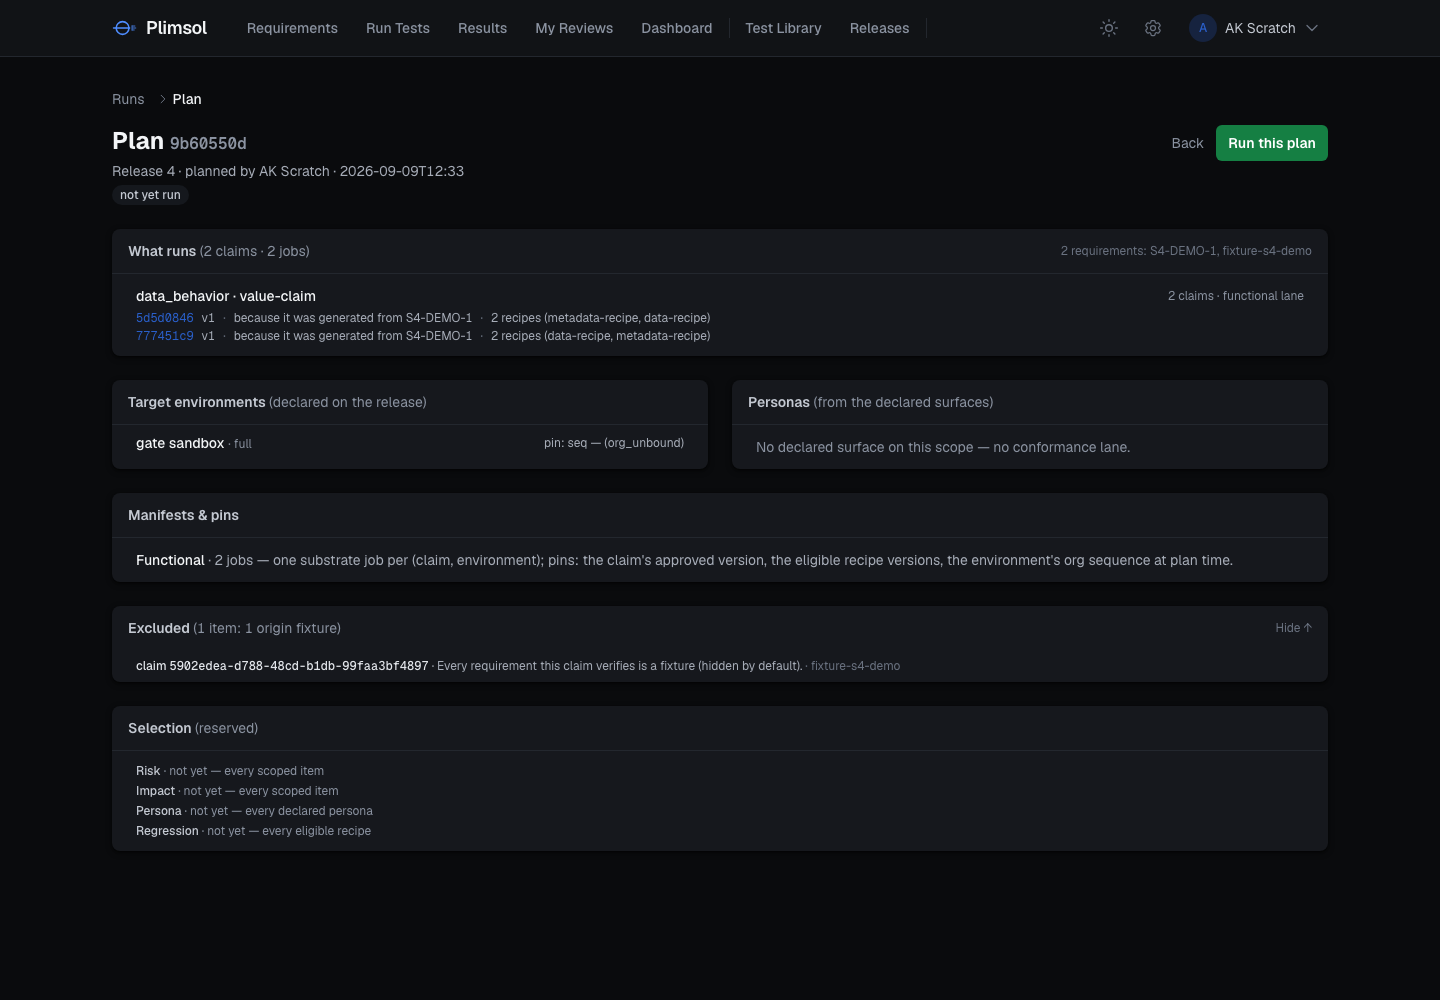
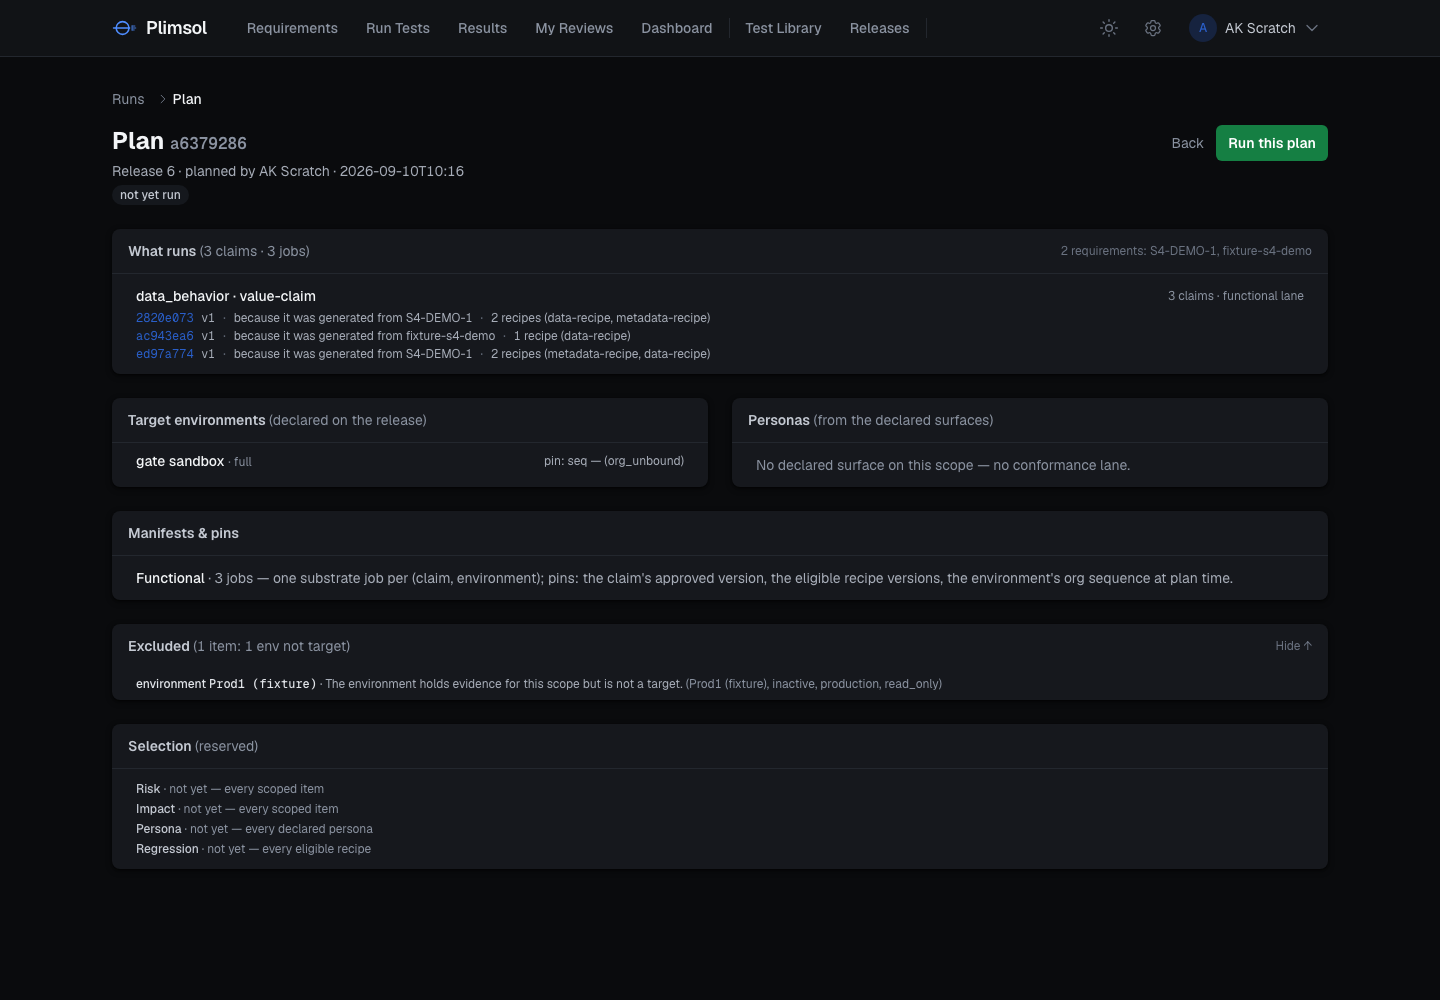
fix(step-4): the plan view 500 on an environment exclusion — the class closed across every template: Jinja's subscript on a dict falls back to attribute lookup when the key is absent, so `x['keys']` on an environment exclusion (which carries no `keys` entry) yielded the dict's own method and the joi

diff --git a/primeqa/templates/plans/detail.html b/primeqa/templates/plans/detail.html
@@ -75,7 +75,7 @@
             <a href="/claims/{{ c.test_id }}" class="font-mono text-indigo-700 hover:underline">{{ c.test_id[:8] }}</a>
             <span>v{{ c.version_seq }}</span>
             <span class="text-gray-400">&middot;</span>
-            <span>because it {{ 'was generated from' if 'generated_from' in c.link_kinds else 'verifies' }} {{ c['keys'] | join(', ') }}</span>
+            <span>because it {{ 'was generated from' if 'generated_from' in c.link_kinds else 'verifies' }} {{ (c.get('keys') or []) | join(', ') }}</span>
             <span class="text-gray-400">&middot;</span>
             <span>{{ c.recipes | length }} recipe{{ '' if (c.recipes | length) == 1 else 's' }} ({{ c.recipes | map(attribute='recipe_kind') | unique | join(', ') }})</span>
             {% if c.unclassified %}<span class="text-amber-700">&middot; origin not classified</span>{% endif %}
@@ -145,12 +145,12 @@
       <h3 class="text-sm font-semibold text-gray-700">Excluded <span class="text-gray-500 font-normal">({{ plan.excluded_total }} item{{ '' if plan.excluded_total == 1 else 's' }}{% if plan.exclusion_lines %}: {% for l in plan.exclusion_lines %}{{ l.count }} {{ l.reason | replace('_', ' ') }}{{ '' if loop.last else ', ' }}{% endfor %}{% endif %})</span></h3>
       <span class="text-xs text-gray-400 group-open:hidden">Show &darr;</span><span class="text-xs text-gray-400 hidden group-open:inline">Hide &uarr;</span>
     </summary>
-    {% if plan.exclusions['items'] %}
+    {% if plan.exclusions.get('items') %}
     <ul class="divide-y divide-gray-100 text-xs">
-      {% for x in plan.exclusions['items'] %}
+      {% for x in plan.exclusions.get('items') or [] %}
       <li class="px-6 py-2 text-gray-600" data-testid="plan-exclusion" data-reason="{{ x.reason }}" data-ref="{{ x.ref }}">
         <span class="font-medium text-gray-800">{{ x.kind }} <span class="font-mono">{{ x.ref if x.kind != 'environment' else env_names.get(x.ref, x.name or x.ref) }}</span></span>
-        &middot; {{ x.sentence }}{% if x.kind == 'environment' and x.name %} <span class="text-gray-500">({{ x.name }}{% if x.is_active == false %}, inactive{% endif %}{% if x.is_production %}, production{% endif %}{% if x.execution_policy %}, {{ x.execution_policy }}{% endif %})</span>{% endif %}{% if x['keys'] %} <span class="text-gray-400">&middot; {{ x['keys'] | join(', ') }}</span>{% endif %}
+        &middot; {{ x.sentence }}{% if x.kind == 'environment' and x.name %} <span class="text-gray-500">({{ x.name }}{% if x.is_active == false %}, inactive{% endif %}{% if x.is_production %}, production{% endif %}{% if x.execution_policy %}, {{ x.execution_policy }}{% endif %})</span>{% endif %}{% if x.get('keys') %} <span class="text-gray-400">&middot; {{ x.get('keys') | join(', ') }}</span>{% endif %}
       </li>
       {% endfor %}
     </ul>

diff --git a/primeqa/templates/releases/detail.html b/primeqa/templates/releases/detail.html
@@ -144,7 +144,7 @@
       <h3 class="text-sm font-medium text-gray-900">Evaluate will refuse — {{ scope_readiness.non_current }} item{{ '' if scope_readiness.non_current == 1 else 's' }} in scope {{ 'is' if scope_readiness.non_current == 1 else 'are' }} not current</h3>
       <p class="text-xs text-gray-500 mt-0.5">A release is graded over its scope's readiness, not its wishes. Run the scope, then evaluate.</p>
       <ul class="mt-3 divide-y divide-gray-100">
-        {% for i in scope_readiness['items'] if i.state != 'CURRENT' %}
+        {% for i in scope_readiness.get('items') or [] if i.state != 'CURRENT' %}
         <li class="py-2 flex items-center gap-3 text-sm" data-testid="scope-item" data-readiness="{{ i.state }}">
           <span class="font-mono text-xs text-blue-700">{{ i.external_keys | join(', ') if i.external_keys else i.test_id[:8] }}</span>
           <span class="text-xs text-gray-500">{{ (env_names or {}).get(i.environment_id) or ('Environment ' ~ i.environment_id if i.environment_id is not none else 'no environment') }}</span>

diff --git a/tests/unit/test_plan_view_template.py b/tests/unit/test_plan_view_template.py
@@ -1,0 +1,86 @@
+"""Step 4 fix (the production 500 on the plan view): the plan template renders a
+resolution that carries an ENVIRONMENT exclusion — the row shape that has no
+``keys`` entry — without a database and without Flask (base.html stubbed).
+
+Jinja's subscript on a dict falls back to attribute lookup when the key is
+absent, so ``x['keys']`` on such a row yields the dict's own ``keys`` METHOD and
+the join filter dies. The template reads ``.get`` now; this test is the guard.
+"""
+from __future__ import annotations
+
+import pathlib
+
+from jinja2 import ChoiceLoader, DictLoader, Environment, FileSystemLoader
+
+TEMPLATES = pathlib.Path(__file__).resolve().parents[2] / "primeqa" / "templates"
+
+_STUB_BASE = "{% block title %}{% endblock %}{% block content %}{% endblock %}"
+
+
+def _env():
+    return Environment(loader=ChoiceLoader([DictLoader({"base.html": _STUB_BASE}),
+                                            FileSystemLoader(str(TEMPLATES))]),
+                       autoescape=True)
+
+
+def _plan(*, executed=False):
+    return {
+        "id": "f52771fd-971f-4c3f-a507-53d110aa51dc", "scope_kind": "release", "scope_ref": "16",
+        "planned_by": 1, "planned_by_name": "AK", "authorised_by": None, "authorised_by_name": None,
+        "planned_at": "2026-09-09T12:18:04", "executed_by": (1 if executed else None),
+        "executed_by_name": ("AK" if executed else None), "executed_at": ("2026-09-09T12:30:00" if executed else None),
+        "execution": ({"s4_jobs": [{"job_id": 1, "attached": False}], "ui_jobs": [], "refusals": []} if executed else None),
+        "inputs": {"targets_source": "fallback:evidence-active", "environment_id": None, "resolved_scope_kind": "release",
+                   "schedule": None},
+        "resolution": {
+            "requirement_keys": ["SQ-205"], "claim_count": 1,
+            "claims_by_kind": {"data_behavior / value-claim": {"archetype": "data_behavior", "claim_kind": "value-claim",
+                               "lane": "functional", "claims": [{"test_id": "abcdef12-0000-0000-0000-000000000000", "version_seq": 1,
+                               "keys": ["SQ-205"], "link_kinds": ["generated_from"], "origins": ["jira"], "unclassified": False,
+                               "recipes": [{"recipe_id": "r1", "version_seq": 1, "recipe_kind": "data-recipe", "mode": "WRITE"}]}]}},
+            "environments": [{"environment_id": 59, "name": "Prime QA NEW", "is_active": True, "is_production": False,
+                              "execution_policy": "full", "admitted": True,
+                              "pin": {"connected_org_id": "o", "org_version_seq": 253, "state": "CURRENT"}}],
+            "personas": [], "declared_surfaces": [],
+            "manifests": {"functional": {"pairs": [{"test_id": "abcdef12", "environment_id": 59, "recipes": ["r1"]}], "job_count": 1},
+                          "conformance": []},
+            "selection": {"impact": "not yet — every scoped item", "risk": "not yet — every scoped item",
+                          "persona": "not yet — every declared persona", "regression": "not yet — every eligible recipe"},
+        },
+        "exclusions": {"items": [
+            # the production shape: an ENVIRONMENT exclusion carries no `keys` entry
+            {"kind": "environment", "ref": 78, "reason": "env_not_target",
+             "sentence": "The environment holds evidence for this scope but is not a target.",
+             "name": "Prod1", "is_active": False, "is_production": True, "execution_policy": "read_only"},
+            {"kind": "claim", "ref": "71583230-3a10-44ae-9744-fe1eb38cbd85", "reason": "claim_deprecated",
+             "sentence": "The claim is deprecated — it no longer applies.", "keys": ["SQ-205"]},
+        ], "counts": {"env_not_target": 1, "claim_deprecated": 1}},
+        "exclusion_lines": [{"reason": "env_not_target", "count": 1, "sentence": "…"},
+                            {"reason": "claim_deprecated", "count": 1, "sentence": "…"}],
+        "excluded_total": 2,
+    }
+
+
+def _render(plan):
+    return _env().get_template("plans/detail.html").render(
+        plan=plan, available=True, env_names={59: "Prime QA NEW", 78: "Prod1"},
+        user={"role": "tester", "full_name": "AK", "email": "x@y"}, csrf_input="", active_page="releases")
+
+
+def test_plan_view_renders_an_environment_exclusion_that_carries_no_keys():
+    html = _render(_plan())
+    assert 'data-testid="plan-exclusion" data-reason="env_not_target" data-ref="78"' in html
+    assert "Prod1" in html and "inactive" in html and "production" in html and "read_only" in html
+    assert 'data-reason="claim_deprecated"' in html and "SQ-205" in html       # the claim row still names its keys
+    assert 'data-excluded-total="2"' in html
+    assert 'data-testid="run-this-plan"' in html and "not yet run" in html
+
+
+def test_plan_view_renders_the_executed_state():
+    html = _render(_plan(executed=True))
+    assert "already run" in html and 'data-executed="1"' in html
+
+
+def test_plan_view_renders_with_no_exclusions_at_all():
+    p = _plan(); p["exclusions"] = {"items": [], "counts": {}}; p["exclusion_lines"] = []; p["excluded_total"] = 0
+    assert "Nothing excluded." in _render(p)

diff --git a/tests/unit/test_templates_dict_method_names.py b/tests/unit/test_templates_dict_method_names.py
@@ -1,0 +1,33 @@
+"""The class behind the Step 4 plan-view 500, closed for every template: Jinja's
+subscript on a dict falls back to ATTRIBUTE lookup when the key is absent, so
+``x['keys']`` (or ``['items']``, ``['values']``, ``['get']`` …) on a row that
+lacks the entry silently yields the dict's own method — and the next filter
+dies at request time. Templates read such entries with ``.get(...)``.
+"""
+from __future__ import annotations
+
+import pathlib
+import re
+
+TEMPLATES = pathlib.Path(__file__).resolve().parents[2] / "primeqa" / "templates"
+_METHOD_NAMES = "keys|values|items|get|copy|update|pop|clear|setdefault|fromkeys"
+_SUBSCRIPT = re.compile(r"\[['\"](" + _METHOD_NAMES + r")['\"]\]")
+# attribute-style reads of a dict-method NAME that are not calls (``x.keys`` meaning "the item")
+_ATTRIBUTE = re.compile(r"\.(" + _METHOD_NAMES + r")\b(?!\s*\()")
+
+
+def _hits(pattern):
+    out = []
+    for path in sorted(TEMPLATES.rglob("*.html")):
+        for i, line in enumerate(path.read_text().splitlines(), 1):
+            if pattern.search(line):
+                out.append(f"{path.relative_to(TEMPLATES)}:{i}: {line.strip()[:100]}")
+    return out
+
+
+def test_no_template_subscripts_a_dict_method_name():
+    assert _hits(_SUBSCRIPT) == []
+
+
+def test_no_template_reads_a_dict_method_name_as_an_attribute():
+    assert _hits(_ATTRIBUTE) == []

diff --git a/tests/integration/test_step_4_scope.py b/tests/integration/test_step_4_scope.py
@@ -154,7 +154,10 @@ def test_schedule_refuses_without_authority_then_claims_plans_and_executes():
         c.commit()
     plan_id = None
     try:
-        now = datetime(2026, 9, 10, 6, 5, tzinfo=timezone.utc)      # past the 06:00 occurrence → due
+        # "now" is the row's own clock plus a day and an hour: past the next 06:00 occurrence
+        # whatever today is (a fixed date made the test due only until that date passed).
+        from datetime import timedelta
+        now = datetime.now(timezone.utc) + timedelta(days=1, hours=1)
         out = store.get(sid)
         assert out.authority is None
         r1 = fire_due_schedules(TENANT, production_env_ids=set(), now=now)

diff --git a/docs/ui-testing/VERIFICATION_STEP_4.md b/docs/ui-testing/VERIFICATION_STEP_4.md
@@ -135,3 +135,70 @@ migration first (D-285), as every step.
 | nothing written | plans 0, targets 0, schedule 1 authority NULL, 0 jobs since the deploy. The schedule was NOT claimed and no plan was run — both AK's acts |
 
 No dump was taken (ADDITIVE, classified). No data act followed the merge. Schedule 1 stays enabled; its next 06:00Z fire (2026-09-10) REFUSES loudly and records the refusal until AK claims it on the panel.
+
+## i. Production defect after the merge — the plan view 500 (2026-09-09 → fixed 2026-09-10)
+
+**What AK saw.** Clicking Plan on release 16's decision tab rendered "Something
+went wrong" (a 500). The Plan POST itself succeeded — two plans were recorded
+(f52771fd at 12:18:04Z, 1499dd4b at 12:18:25Z: 19 claims, 19 jobs, fallback
+targets, four deprecated claims and env 78 excluded), neither executed, zero
+jobs. The GET of the plan view failed:
+
+```
+Unhandled TypeError on GET /plans/f52771fd-971f-4c3f-a507-53d110aa51dc
+  File "/app/primeqa/templates/plans/detail.html", line 153, in block 'content'
+  File ".../jinja2/filters.py", line 617, in sync_do_join
+TypeError: 'builtin_function_or_method' object is not iterable
+```
+
+**Root cause, one sentence.** The template read each exclusion's requirement
+keys as `x['keys']`, and on an ENVIRONMENT exclusion — which carries no such
+entry — Jinja's subscript falls back to attribute lookup and returns the dict's
+own `keys` method, which the join filter cannot iterate. A code defect in the
+template; the data shape (evidence on env 78 outside the targets) is ordinary
+and the planner recorded it correctly. The same class as build correction 5,
+fixed at one line and missed at this one.
+
+**The class, closed.** A sweep of every template for subscript access to a
+dict-method name (`keys values items get copy update pop clear`): **5 hits in
+2 templates** — `plans/detail.html` lines 78, 148, 150, 153 and
+`releases/detail.html` line 147 (`scope_readiness['items']`, latent: the key
+is always present there). Every hit now reads `.get(...)`, so an absent entry
+is falsy. The reverse form (an attribute read of a method name that is not a
+call) had zero hits. Two guards: `tests/unit/test_plan_view_template.py`
+renders the plan view — base template stubbed, no Flask, no database — over a
+resolution carrying an environment exclusion (plus the executed state and the
+no-exclusions state); `tests/unit/test_templates_dict_method_names.py` asserts
+no template subscripts or attribute-reads a dict-method name.
+
+**The verification gap, in AK's words.** A route whose only exercise was
+scratch, whose production data shape (evidence outside declared targets) is
+ordinary. The fixture world on scratch had no evidence on a non-target
+environment, so the environment-exclusion branch never rendered in the
+screenshots, and the merge proof rendered the decision tab's Plan link, not a
+plan view, because creating a plan is a write. **The standing correction: a
+merge proof must render the actual page on production data, not just the link
+to it.** Closed here two ways: the scratch fixture world gains an INACTIVE,
+production, `read_only` environment holding evidence for the scope
+(`plant_step_4_world.py`), and both release plan views were re-shot with the
+branch rendering — `plan_view_release_fallback_targets.png` /
+`plan_view_release_declared_target.png` now show "environment Prod1 (fixture) ·
+The environment holds evidence for this scope but is not a target. (Prod1
+(fixture), inactive, production, read_only)" under Excluded. After the deploy,
+the read-only proof is AK's two existing production plans rendering 200 with
+their env-78 exclusion visible — the proof the merge should have had.
+
+**One test fixed on the way.** `test_step_4_scope.py`'s schedule test froze its
+"now" at 2026-09-10 06:05Z — tomorrow when written, earlier than the row's own
+creation time once that day arrived, so the schedule was never due and the
+corpus went red on the day after the merge. Its clock is now the row's own
+clock plus a day and an hour. A test defect, not a product one.
+
+**Suites at the fix commit.** test_representation 429 passed / 3 skipped;
+DB-real corpus on clean scratch 109 passed / 7 skipped / 2 red before the test
+fix (the D-480 report-slice artefact + the schedule test above; the latter 3/3
+green after); pages 7; browser-gated 63 / 11 skipped; unit **5044 passed, 3 warnings in 276.12s (0:04:36)**.
+
+**Merge classification.** Code + tests only: two templates, three test files
+(two new guards + the clock fix), the docs — no migration, no data write.
+WRITE-FREE, dumpless under D-476.

diff --git a/docs/ui-testing/LLD_STEP_4_RUN_PLANNER.md b/docs/ui-testing/LLD_STEP_4_RUN_PLANNER.md
@@ -1,6 +1,6 @@
 # LLD — Step 4: the Run Planner (TA condition 3; Fork 5: PLAN succeeds Run Tests)
 
-**Status: BUILT (2026-09-09; design b11a67f, GO with rulings 1–4; AK confirms he re-enabled schedule 1 by hand via the D-214 toggle, so the 02:09Z fire is authorised in fact and unrecorded only because the toggle wrote no audit row). Eight corrections found at build are recorded in VERIFICATION_STEP_4.md §0 (a failing recipe is named even when its claim survives; the plan id rides conditionally so injected fakes keep their signatures; best-effort writes on savepoints; the legacy enqueue seam kept for tests only; the Jinja dict-keys gotcha; the first-render CSRF field; create-time classification of a planted fixture key; four pre-existing reaper reds on the harness).** Branch `step-4-run-planner` from
+**Status: BUILT (2026-09-09; design b11a67f, GO with rulings 1–4; AK confirms he re-enabled schedule 1 by hand via the D-214 toggle, so the 02:09Z fire is authorised in fact and unrecorded only because the toggle wrote no audit row). Eight corrections found at build are recorded in VERIFICATION_STEP_4.md §0 (a failing recipe is named even when its claim survives; the plan id rides conditionally so injected fakes keep their signatures; best-effort writes on savepoints; the legacy enqueue seam kept for tests only; the Jinja dict-keys gotcha; the first-render CSRF field; create-time classification of a planted fixture key; four pre-existing reaper reds on the harness). Post-merge production defect 2026-09-09: the plan view 500ed on an environment exclusion (the Jinja dict-method fallback, the same class as correction 5, missed at a second line) — fixed with the class closed across every template and the verification gap corrected (VERIFICATION_STEP_4 §i).** Branch `step-4-run-planner` from
 `main` @ fb59095 (Step 3 live, D-485). Mock approved by AK: the PLAN view
 answers what / why / scope only — claims by kind with reasons, declared
 target environments with exclusions named, manifests + pins, an explicit

diff --git a/docs/reviews/PLIMSOL_FIX_PLAN.md b/docs/reviews/PLIMSOL_FIX_PLAN.md
@@ -644,3 +644,20 @@
   not exist" in the warning); 4 failed / 8 passed at fb59095 in a clean
   worktree. Not a product defect; a harness gap (an injected env reader, as
   the planner has, or a minimal public table in the harness).
+
+## Added 2026-09-10 — from the Step 4 production defect (the plan view 500)
+
+- **Verification gap (standing correction): a merge proof must render the
+  actual page on production data, not just the link to it.** The Step 4 plan
+  view was exercised only against the scratch world, whose fixture release had
+  no evidence on a non-target environment; production's ordinary data shape
+  (evidence on env 78 outside the targets) reached a template branch the
+  screenshots never rendered, and the merge proof stopped at the decision tab's
+  Plan link because creating a plan is a write. Fixed for Step 4 (a
+  prod-shaped scratch world; AK's two production plans as the post-deploy
+  proof); the correction stands for every step: the proof renders the page.
+- **Closed class (Low, recorded): Jinja subscript-to-attribute fallback on
+  dict-method names.** `x['keys']` on a dict without the entry yields the
+  dict's `keys` METHOD; `.get(...)` is the rule, and
+  `tests/unit/test_templates_dict_method_names.py` guards every template
+  (five hits fixed across `plans/detail.html` and `releases/detail.html`).
